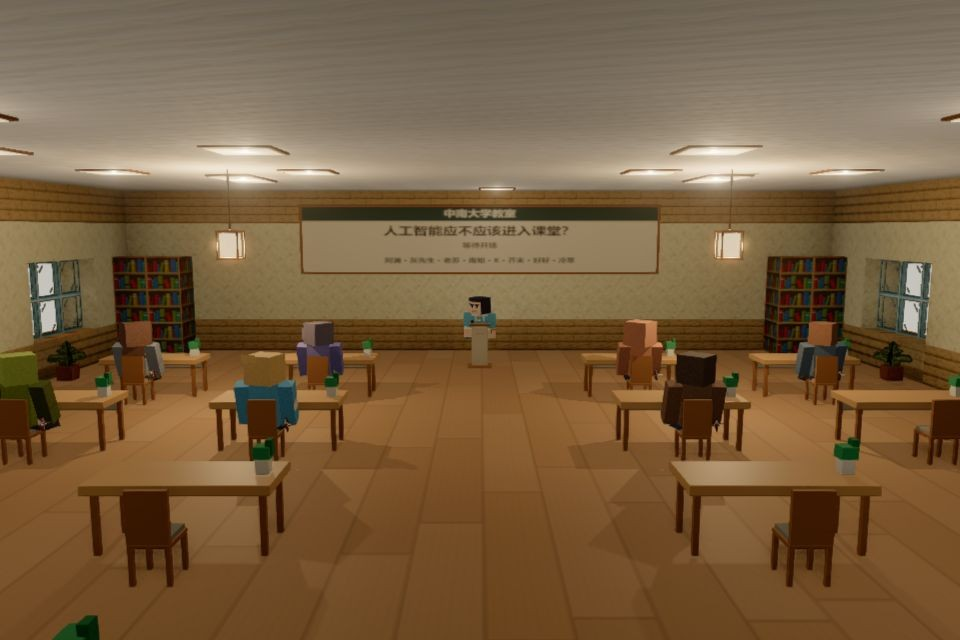
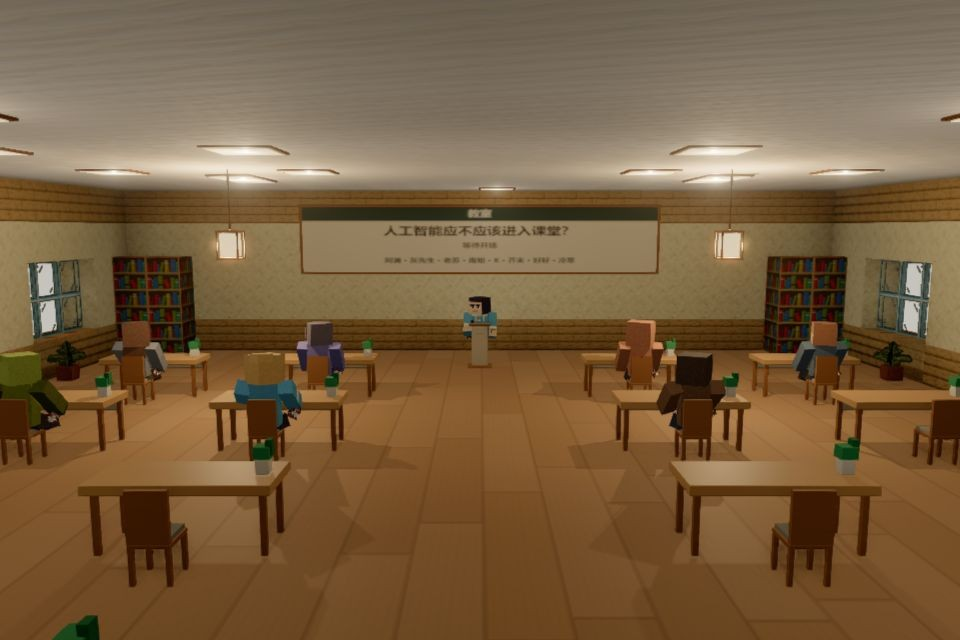
Rename classroom scene to 教室

diff --git a/frontend/src/mc/rooms/scenes.ts b/frontend/src/mc/rooms/scenes.ts
@@ -4,7 +4,7 @@ import {Builder,type Point} from './builders';
 import {buildDebateRoom,type Room,type ActorAnchor} from './debate';
 
 export const MC_SCENE_KINDS:McSceneKind[]=['debate','roundtable','office','classroom','meadow','podcast'];
-export const MC_SCENE_NAMES:Record<McSceneKind,string>={debate:'辩论室',roundtable:'圆桌会议室',office:'办公室',classroom:'中南大学教室',meadow:'草地野餐',podcast:'播客访谈间'};
+export const MC_SCENE_NAMES:Record<McSceneKind,string>={debate:'辩论室',roundtable:'圆桌会议室',office:'办公室',classroom:'教室',meadow:'草地野餐',podcast:'播客访谈间'};
 const anchor=(x:number,z:number,yaw:number,i:number,standing=false):ActorAnchor=>({seat:[x,standing?1:1.5,z],stand:[x,1,z],homeYaw:yaw,mic:'seat-'+i,chair:standing?undefined:'chair-'+i});
 
 /** 共用暖色墙、木框和游戏灯具；每个场景单独提供布局与座位，不借用辩论室的队伍。 */

diff --git a/frontend/src/data/scenes.ts b/frontend/src/data/scenes.ts
@@ -58,7 +58,7 @@ const ORIGINAL_SCENES: Record<string, SceneDef> = {
   },
   classroom: {
     id: 'classroom',
-    name: '中南大学教室',
+    name: '教室',
     image: '/scenes/scene-classroom.png',
     description: '第一个人站上讲台，其余人坐在前排听讲和发言',
     recommendedMode: 'rational',

diff --git a/README.md b/README.md
@@ -22,9 +22,9 @@
 
 ![工作 · 办公室](docs/screens/04-office.png)
 
-场景图在 `frontend/public/scenes/`，六张分别是圆桌会议室、辩论室、办公室、中南大学教室、草地野餐、播客访谈间（正面视角，两人全身坐在扶手椅上访谈），也可以上传自己的图。例如中南大学教室：
+场景图在 `frontend/public/scenes/`，六张分别是圆桌会议室、辩论室、办公室、教室、草地野餐、播客访谈间（正面视角，两人全身坐在扶手椅上访谈），也可以上传自己的图。例如教室：
 
-![中南大学教室](frontend/public/scenes/scene-classroom.png)
+![教室](frontend/public/scenes/scene-classroom.png)
 
 加了 3D 场景之后，像素场景和各模式的默认场景都不变。在场景列表下方的「新增 3D 场景」中，还可单独选择「圆桌会议室 · 3D」「辩论室 · 3D」「办公室 · 3D」。仅主动选择这些新增场景时才加载三维模型，可拖动旋转、滚轮缩放，也能切回场景原图。人物继续使用现有的独立角色形象和状态动画，位置跟随视角；之前试生成的通用人物模型已撤下。模型来源、处理脚本和当前限制见 [`frontend/public/models/README.md`](frontend/public/models/README.md)。
 

diff --git a/frontend/docs/handoff/06-我的世界辩论室-执行手册.md b/frontend/docs/handoff/06-我的世界辩论室-执行手册.md
@@ -2113,7 +2113,7 @@ setStageGate?(gate: StageGate | null): void;
 | --- | --- | --- |
 | 圆桌会议室 · 我的世界 | 暖木圆桌、八席围坐，坐着交流，双主灯避开话题板 | 娱乐 |
 | 办公室 · 我的世界 | 十三个工位、中央交换台、六席会议区；走访、站会、开会、回工位与任务提示 | 产品工作 |
-| 中南大学教室 · 我的世界 | 第一席站在讲台，学生坐课桌前；公开发言时学生起立，发言结束后坐回 | 辩论 |
+| 教室 · 我的世界 | 第一席站在讲台，学生坐课桌前；公开发言时学生起立，发言结束后坐回 | 辩论 |
 | 草地野餐 · 我的世界 | 八人围坐木桩、野餐布、低桌、树林与池塘；保持下午户外光，水面使用原版动画贴图 | 娱乐 |
 | 播客访谈间 · 我的世界 | 两把扶手椅、话筒、地毯和吸音板；第一席主持、第二席嘉宾，坐着对谈 | 娱乐 |
 
